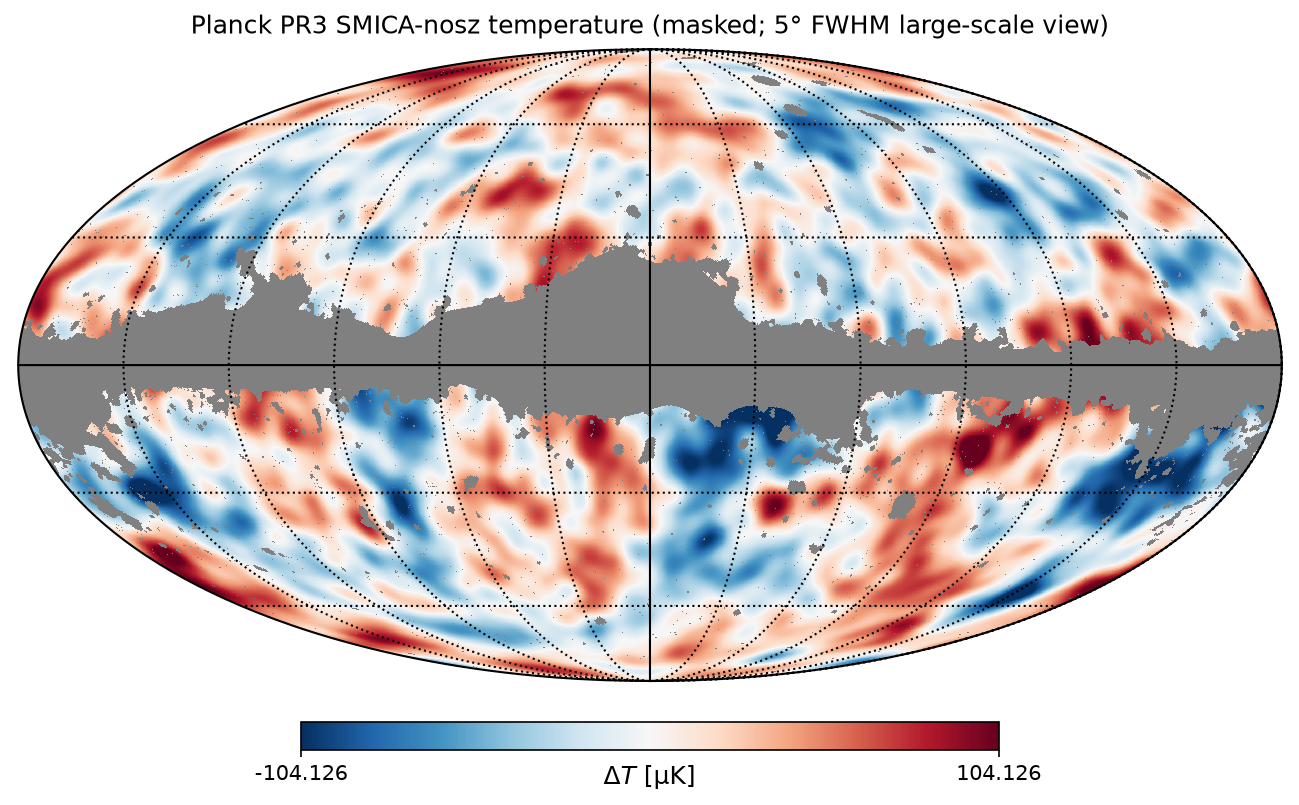
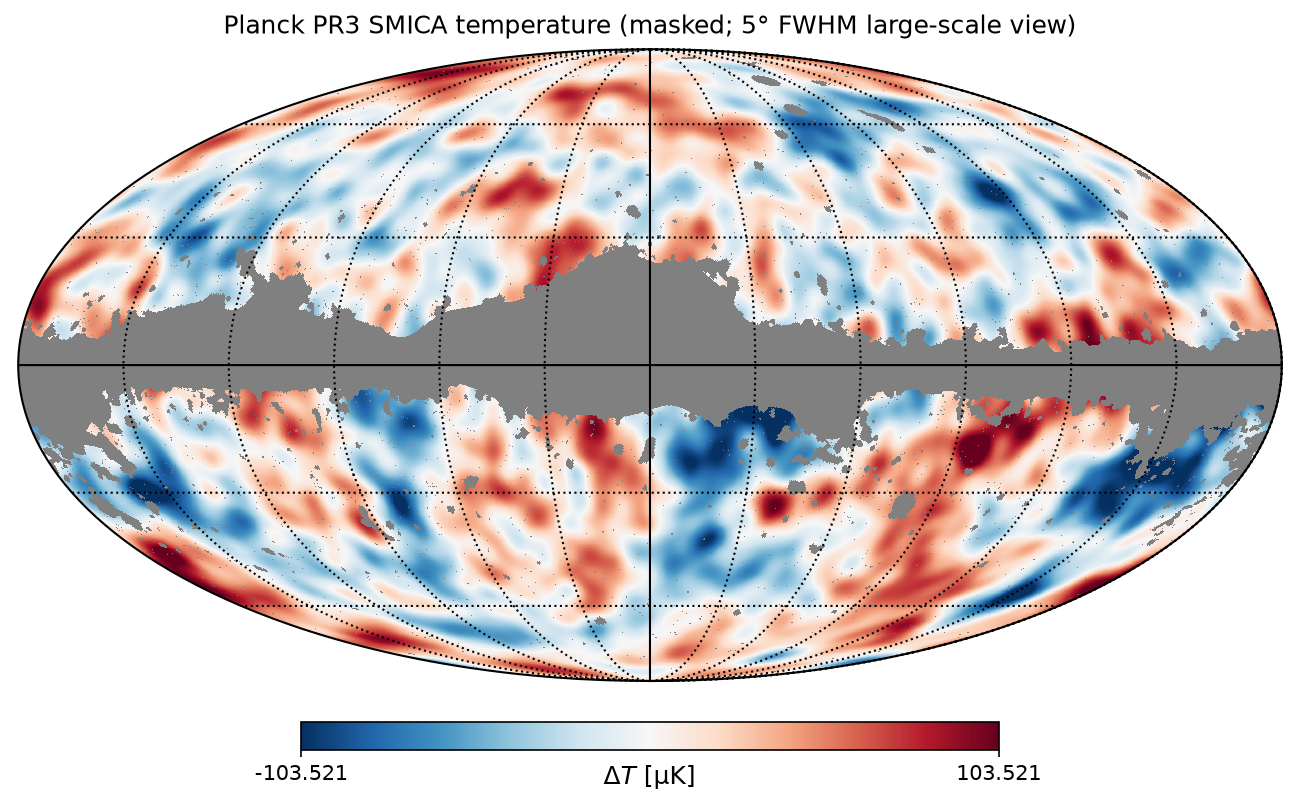
Update CMB map reference to full PR3 SMICA with verified extrema
Replace SMICA-nosz baseline with COM_CMB_IQU-smica_2048_R3.00_full,
document mask/smoothing choices and IRSA/PLA product links, regenerate
Mollweide figures, and refresh masked 1° top-10 hot/cold tables. Keep
Pantheon+ residual section as companion overlay hook; still no
correlation claims.

diff --git a/cmb-map.html b/cmb-map.html
@@ -3,8 +3,8 @@
 <head>
   <meta charset="utf-8">
   <meta name="viewport" content="width=device-width, initial-scale=1">
-  <title>CMB &amp; redshift residual maps — External Gravity Cosmology</title>
-  <meta name="description" content="Reference map facts for Planck PR3 SMICA temperature extrema and Pantheon+ directional distance-modulus residuals. Overlay products for offline correlation work — not EGC proof claims.">
+  <title>CMB map reference — External Gravity Cosmology</title>
+  <meta name="description" content="Data reference for the Planck PR3 SMICA temperature map used in planned offline CMB↔redshift work: product links, Mollweide visuals, and masked mild-smoothed extrema. No correlation results claimed.">
   <link rel="icon" href="favicon.svg" type="image/svg+xml">
   <link rel="stylesheet" href="css/styles.css">
   <style>
@@ -24,21 +24,31 @@
     }
     .data-table {
       width: 100%;
-      border-collapse: collapse;
-      font-size: 0.88rem;
-      margin: 1rem 0 1.75rem;
       overflow-x: auto;
-      display: block;
-    }
-    .data-table table { width: 100%; border-collapse: collapse; }
-    .data-table th, .data-table td {
+      margin: 1rem 0 1.75rem;
       border: 1px solid var(--border);
-      padding: 0.45rem 0.55rem;
+      border-radius: var(--radius);
+      background: var(--bg-card);
+    }
+    .data-table table { width: 100%; border-collapse: collapse; font-size: 0.88rem; min-width: 36rem; }
+    .data-table th, .data-table td {
+      border-bottom: 1px solid var(--border);
+      padding: 0.5rem 0.65rem;
       text-align: right;
       white-space: nowrap;
     }
+    .data-table tr:last-child td { border-bottom: none; }
     .data-table th:first-child, .data-table td:first-child { text-align: center; }
-    .data-table th { background: var(--bg-card); color: var(--text-muted); font-weight: 600; }
+    .data-table th {
+      background: var(--bg-elevated);
+      color: var(--accent);
+      font-weight: 600;
+      font-size: 0.72rem;
+      text-transform: uppercase;
+      letter-spacing: 0.08em;
+    }
+    .link-list { margin: 0.75rem 0 1.25rem; padding-left: 1.2rem; }
+    .link-list li { margin: 0.35rem 0; }
     .method-box code { font-size: 0.85em; }
   </style>
 </head>
@@ -71,12 +81,13 @@
 
   <main id="main">
     <section class="hero">
-      <p class="hero-kicker">Reference map products</p>
-      <h1>CMB &amp; redshift residual maps</h1>
+      <p class="hero-kicker">Data reference</p>
+      <h1>CMB map reference</h1>
       <p class="hero-lead">
-        Public Planck SMICA and Pantheon+ products reprojected for sky overlay.
-        Tables below list mild-smoothed extrema for orientation. Correlation analysis
-        remains offline; nothing on this page claims an EGC proof.
+        Which public Planck maps and masks are used for planned offline CMB↔redshift
+        overlay work, how they look in Galactic Mollweide projection, and the strongest
+        hot and cold extrema of the masked SMICA temperature map. No correlation results,
+        p-values, or unfinished analysis are presented here.
       </p>
       <div class="cta-row">
         <a class="btn btn-primary" href="papers/egc-cmb-redshift-correlation-outline.html">CMB↔redshift outline</a>
@@ -87,42 +98,90 @@
 
     <section class="section narrow">
       <div class="callout callout-warn">
-        <strong>Map facts only</strong>
+        <strong>Reference products only</strong>
         <p>
-          Extrema and Mollweide images are <em>reference products</em> derived from
-          official public catalogs. They support visual and offline statistical overlay
+          Mollweide images and extrema tables are derived from official public Planck
+          (and, below, Pantheon+) releases. They support orientation and offline overlay
           work. Favourable or discordant patterns would be interpreted only after a
           documented null test — not asserted here as completed correlation results.
         </p>
       </div>
     </section>
 
+    <section class="section narrow" aria-labelledby="products-heading">
+      <h2 id="products-heading">Primary products</h2>
+      <p class="lede">
+        The working baseline is the Planck Public Data Release 3 (PR3) SMICA
+        temperature anisotropy map in HEALPix format. PR4 / NPIPE releases are reserved
+        as cross-checks. Visuals use Galactic coordinates in Mollweide projection.
+        The Planck common intensity mask excludes the Galactic plane and other
+        contaminated regions for extrema reported below.
+      </p>
+      <ul class="link-list">
+        <li>
+          <strong>SMICA CMB map (PR3 full-mission IQU):</strong>
+          product ID <code>COM_CMB_IQU-smica_2048_R3.00_full</code>
+          —
+          <a href="https://irsa.ipac.caltech.edu/data/Planck/release_3/all-sky-maps/maps/component-maps/cmb/COM_CMB_IQU-smica_2048_R3.00_full.fits" rel="noopener noreferrer">IRSA / LAMBDA FITS download</a>
+          ·
+          <a href="https://irsa.ipac.caltech.edu/data/Planck/release_3/all-sky-maps/previews/COM_CMB_IQU-smica_2048_R3.00_full/index.html" rel="noopener noreferrer">product preview</a>
+          ·
+          <a href="https://pla.esac.esa.int/pla/#home" rel="noopener noreferrer">ESA Planck Legacy Archive portal</a>
+          (search the same product ID if a deep archive URL changes).
+        </li>
+        <li>
+          <strong>Common intensity mask:</strong>
+          product ID <code>COM_Mask_CMB-common-Mask-Int_2048_R3.00</code>
+          —
+          <a href="https://irsa.ipac.caltech.edu/data/Planck/release_3/ancillary-data/masks/COM_Mask_CMB-common-Mask-Int_2048_R3.00.fits" rel="noopener noreferrer">IRSA FITS download</a>
+          ·
+          <a href="https://irsa.ipac.caltech.edu/data/Planck/release_3/ancillary-data/previews/COM_Mask_CMB-common-Mask-Int_2048_R3.00/index.html" rel="noopener noreferrer">preview</a>.
+        </li>
+        <li>
+          <strong>CMB map matrix (all pipelines):</strong>
+          <a href="https://irsa.ipac.caltech.edu/data/Planck/release_3/all-sky-maps/matrix_cmb.html" rel="noopener noreferrer">IRSA PR3 CMB maps matrix</a>
+          (COMMANDER, NILC, SEVEM, SMICA).
+        </li>
+      </ul>
+      <p class="note">
+        Site images below were generated locally with healpy from the public HEALPix
+        products (not hotlinked). Planck map products are cited as ESA / Planck Collaboration.
+      </p>
+    </section>
+
     <section class="section narrow" aria-labelledby="cmb-heading">
       <h2 id="cmb-heading">Planck PR3 SMICA temperature</h2>
-      <p>
-        Source:
-        <a href="https://irsa.ipac.caltech.edu/data/Planck/release_3/all-sky-maps/maps/component-maps/cmb/" rel="noopener noreferrer">IRSA Planck PR3 CMB component maps</a>
-        — product <code>COM_CMB_IQU-smica-nosz_2048_R3.00_full</code> (I_STOKES),
-        with the common intensity mask
-        <code>COM_Mask_CMB-common-Mask-Int_2048_R3.00</code>.
-        Analysis: ud_grade to NSIDE&nbsp;512, FWHM&nbsp;1° Gaussian smoothing for extrema,
-        10° exclusion between listed spots. Units: µK.
-      </p>
+      <div class="callout method-box">
+        <strong>Extrema method</strong>
+        <p>
+          Field <code>I_STOKES</code> from <code>COM_CMB_IQU-smica_2048_R3.00_full</code>
+          (native NSIDE&nbsp;2048, units K<sub>CMB</sub>). Ud-graded to NSIDE&nbsp;512.
+          Common intensity mask applied (pixels with mask&nbsp;&gt;&nbsp;0.5 retained;
+          sky fraction ≈ 77.9%).
+          Mild Gaussian smoothing of <strong>FWHM&nbsp;1°</strong> before extrema so the
+          list tracks large-scale spots rather than single noisy pixels.
+          Successive extrema use a <strong>10°</strong> exclusion disk.
+          Reported values are ΔT in <strong>µK</strong> on that smoothed, masked map.
+          Coordinates: Galactic longitude/latitude; ICRS RA/Dec via standard conversion.
+        </p>
+      </div>
 
       <figure class="map-figure">
         <img src="images/cmb-smica-mollweide.png" width="1200" height="650"
-             alt="Mollweide map of Planck PR3 SMICA-nosz CMB temperature with 1 degree smoothing and Galactic mask">
+             alt="Mollweide map of Planck PR3 SMICA CMB temperature with 1 degree smoothing and common intensity mask">
         <figcaption>
-          Mollweide projection (Galactic) of SMICA-nosz temperature after 1° FWHM smoothing,
-          common intensity mask applied. RdBu diverging scale in µK.
+          Galactic Mollweide of Planck PR3 SMICA temperature after 1° FWHM smoothing,
+          common intensity mask applied. Diverging RdBu scale in µK.
+          Map data: ESA / Planck Collaboration (PR3 SMICA); figure generated for this site.
         </figcaption>
       </figure>
 
       <figure class="map-figure">
         <img src="images/cmb-smica-mollweide-largescale.png" width="1200" height="650"
-             alt="Mollweide map of Planck SMICA temperature with 5 degree large-scale smoothing">
+             alt="Mollweide map of Planck PR3 SMICA temperature with 5 degree large-scale smoothing">
         <figcaption>
-          Same map with 5° FWHM smoothing for large-scale visual context.
+          Same product with 5° FWHM smoothing for large-scale visual context
+          (mask applied). ESA / Planck Collaboration data; site-generated figure.
         </figcaption>
       </figure>
 
@@ -133,16 +192,16 @@
             <tr><th>#</th><th>ΔT [µK]</th><th>l [°]</th><th>b [°]</th><th>RA [°]</th><th>Dec [°]</th></tr>
           </thead>
           <tbody>
-            <tr><td>1</td><td>277.54</td><td>158.02</td><td>-70.26</td><td>24.25</td><td>-10.56</td></tr>
-            <tr><td>2</td><td>267.72</td><td>138.66</td><td>78.74</td><td>189.01</td><td>37.91</td></tr>
-            <tr><td>3</td><td>261.62</td><td>267.01</td><td>-20.03</td><td>107.23</td><td>-56.44</td></tr>
-            <tr><td>4</td><td>243.45</td><td>232.82</td><td>8.84</td><td>120.19</td><td>-13.25</td></tr>
-            <tr><td>5</td><td>239.84</td><td>176.84</td><td>12.71</td><td>98.06</td><td>37.72</td></tr>
-            <tr><td>6</td><td>238.00</td><td>16.85</td><td>72.11</td><td>211.29</td><td>20.99</td></tr>
-            <tr><td>7</td><td>237.27</td><td>303.57</td><td>-29.23</td><td>357.92</td><td>-87.83</td></tr>
-            <tr><td>8</td><td>236.63</td><td>0.18</td><td>-37.83</td><td>310.71</td><td>-41.30</td></tr>
-            <tr><td>9</td><td>235.51</td><td>180.37</td><td>55.97</td><td>154.70</td><td>40.24</td></tr>
-            <tr><td>10</td><td>233.10</td><td>219.81</td><td>26.28</td><td>129.32</td><td>6.10</td></tr>
+            <tr><td>1</td><td>+276.47</td><td>158.02</td><td>-70.26</td><td>24.25</td><td>-10.56</td></tr>
+            <tr><td>2</td><td>+266.51</td><td>138.66</td><td>78.74</td><td>189.01</td><td>37.91</td></tr>
+            <tr><td>3</td><td>+265.14</td><td>267.01</td><td>-20.03</td><td>107.23</td><td>-56.44</td></tr>
+            <tr><td>4</td><td>+241.75</td><td>232.82</td><td>8.84</td><td>120.19</td><td>-13.25</td></tr>
+            <tr><td>5</td><td>+240.69</td><td>16.85</td><td>72.11</td><td>211.29</td><td>20.99</td></tr>
+            <tr><td>6</td><td>+239.81</td><td>176.84</td><td>12.71</td><td>98.06</td><td>37.72</td></tr>
+            <tr><td>7</td><td>+237.81</td><td>303.57</td><td>-29.23</td><td>357.92</td><td>-87.83</td></tr>
+            <tr><td>8</td><td>+235.02</td><td>0.18</td><td>-37.83</td><td>310.71</td><td>-41.30</td></tr>
+            <tr><td>9</td><td>+234.22</td><td>180.37</td><td>55.97</td><td>154.70</td><td>40.24</td></tr>
+            <tr><td>10</td><td>+233.70</td><td>170.20</td><td>-46.57</td><td>43.31</td><td>4.82</td></tr>
           </tbody>
         </table>
       </div>
@@ -154,25 +213,30 @@
             <tr><th>#</th><th>ΔT [µK]</th><th>l [°]</th><th>b [°]</th><th>RA [°]</th><th>Dec [°]</th></tr>
           </thead>
           <tbody>
-            <tr><td>1</td><td>-267.13</td><td>200.83</td><td>20.11</td><td>116.11</td><td>19.39</td></tr>
-            <tr><td>2</td><td>-261.10</td><td>158.29</td><td>-32.09</td><td>44.75</td><td>21.88</td></tr>
-            <tr><td>3</td><td>-260.18</td><td>325.20</td><td>-9.82</td><td>247.59</td><td>-62.79</td></tr>
-            <tr><td>4</td><td>-257.28</td><td>71.19</td><td>-13.79</td><td>315.38</td><td>25.25</td></tr>
-            <tr><td>5</td><td>-252.51</td><td>145.55</td><td>-22.75</td><td>38.70</td><td>35.54</td></tr>
-            <tr><td>6</td><td>-251.80</td><td>202.31</td><td>-56.54</td><td>47.35</td><td>-16.86</td></tr>
-            <tr><td>7</td><td>-251.33</td><td>210.76</td><td>-35.23</td><td>69.99</td><td>-13.62</td></tr>
-            <tr><td>8</td><td>-245.95</td><td>341.72</td><td>-41.51</td><td>317.47</td><td>-55.25</td></tr>
-            <tr><td>9</td><td>-243.83</td><td>313.86</td><td>-20.74</td><td>252.58</td><td>-78.16</td></tr>
-            <tr><td>10</td><td>-243.02</td><td>192.04</td><td>-14.79</td><td>79.81</td><td>10.98</td></tr>
+            <tr><td>1</td><td>-267.69</td><td>200.83</td><td>20.11</td><td>116.11</td><td>19.39</td></tr>
+            <tr><td>2</td><td>-254.80</td><td>325.20</td><td>-9.82</td><td>247.59</td><td>-62.79</td></tr>
+            <tr><td>3</td><td>-253.05</td><td>71.19</td><td>-13.79</td><td>315.38</td><td>25.25</td></tr>
+            <tr><td>4</td><td>-250.44</td><td>158.29</td><td>-32.09</td><td>44.75</td><td>21.88</td></tr>
+            <tr><td>5</td><td>-250.29</td><td>145.55</td><td>-22.75</td><td>38.70</td><td>35.54</td></tr>
+            <tr><td>6</td><td>-249.72</td><td>202.31</td><td>-56.54</td><td>47.35</td><td>-16.86</td></tr>
+            <tr><td>7</td><td>-248.52</td><td>341.72</td><td>-41.51</td><td>317.47</td><td>-55.25</td></tr>
+            <tr><td>8</td><td>-247.45</td><td>192.04</td><td>-14.79</td><td>79.81</td><td>10.98</td></tr>
+            <tr><td>9</td><td>-246.82</td><td>210.76</td><td>-35.23</td><td>69.99</td><td>-13.62</td></tr>
+            <tr><td>10</td><td>-241.84</td><td>313.95</td><td>-20.66</td><td>252.49</td><td>-78.04</td></tr>
           </tbody>
         </table>
       </div>
+      <p class="note">
+        These are local extrema of the public map under the stated mask and 1° smoothing,
+        separated by ≥10°. They are not claimed as cosmologically unique “spots” beyond
+        that operational definition, and they are not EGC correlation results.
+      </p>
     </section>
 
-    <section class="section narrow" aria-labelledby="sn-heading">
+    <section class="section narrow" id="redshift-residuals" aria-labelledby="sn-heading">
       <h2 id="sn-heading">Pantheon+ directional distance-modulus residuals</h2>
       <p>
-        Source:
+        Companion sky product for the same planned overlay program. Source:
         <a href="https://github.com/PantheonPlusSH0ES/DataRelease" rel="noopener noreferrer">PantheonPlusSH0ES/DataRelease</a>
         — file <code>Pantheon+_Data/4_DISTANCES_AND_COVAR/Pantheon+SH0ES.dat</code>
         (Scolnic et al. 2022; cosmology context Brout et al. 2022).
@@ -241,19 +305,13 @@
       </div>
     </section>
 
-    <section class="section narrow">
-      <h2>Offline products &amp; caveats</h2>
+    <section class="section narrow" aria-labelledby="offline-heading">
+      <h2 id="offline-heading">Offline correlation work</h2>
       <p>
-        Machine-readable maps and extrema JSON live in the offline EGC workspace
-        (<code>egc-offline/cmb-redshift/</code>): NPZ/FITS residual maps,
-        <code>redshift_residuals_extrema.json</code>, <code>cmb_smica_extrema.json</code>,
-        and the PNGs mirrored under <code>images/</code> on this site.
-      </p>
-      <p class="note">
-        These products are intended for CMB↔redshift overlay studies described in the
-        <a href="papers/egc-cmb-redshift-correlation-outline.html">draft outline</a>.
-        No finished cross-correlation statistic or EGC confirmation is claimed on this page.
-        Contact: <a href="mailto:tom@young01.xyz">tom@young01.xyz</a>.
+        The planned CMB↔redshift directional study is described in the
+        <a href="papers/egc-cmb-redshift-correlation-outline.html">draft paper outline</a>.
+        Correlation analysis itself remains offline; this page supplies map reference
+        material only. Contact: <a href="mailto:tom@young01.xyz">tom@young01.xyz</a>.
       </p>
     </section>
   </main>

diff --git a/index.html b/index.html
@@ -324,6 +324,7 @@
         <li><a href="what-is-egc.html">What is EGC</a></li>
         <li><a href="predictions.html">Predictions</a></li>
         <li><a href="compare.html">Compare</a></li>
+        <li><a href="cmb-map.html">CMB map</a></li>
         <li><a href="faq.html">FAQ</a></li>
         <li><a href="contact.html">Contact</a></li>
       </ul>

diff --git a/SITE-UPDATE.md b/SITE-UPDATE.md
@@ -6,6 +6,34 @@
 **Contact locked to:** `tom@young01.xyz` only  
 **X handle:** `@universerethink` (consistent with live site)
 
+## v2.6 — CMB map reference (+ redshift residual hook)
+
+Public data-reference page for Planck PR3 SMICA (and companion Pantheon+ residual map section) used in planned offline CMB↔redshift work. No correlation results or p-values.
+
+### New / updated
+
+| Path | Role |
+|------|------|
+| `cmb-map.html` | CMB map reference: product links, Mollweide plots, top-10 hot/cold extrema; Pantheon+ residual section |
+| `images/cmb-smica-mollweide.png` | Masked SMICA, 1° FWHM |
+| `images/cmb-smica-mollweide-largescale.png` | Masked SMICA, 5° FWHM |
+| `images/cmb-smica-mollweide-unmasked.png` | Full-sky 1° (optional asset) |
+| `images/pantheonplus-residual-mollweide*.png` | Pantheon+ δμ maps (companion section) |
+
+### Method (CMB)
+
+- Product: `COM_CMB_IQU-smica_2048_R3.00_full` (I_STOKES); mask `COM_Mask_CMB-common-Mask-Int_2048_R3.00`
+- Ud_grade NSIDE 2048→512; FWHM 1° for extrema; 10° exclusion; units µK
+- PR3 working baseline; PR4/NPIPE noted as cross-check
+- Nav: “CMB map” on all main pages + outline
+
+### Untouched (by design)
+
+- No EGC correlation claims / p-values on the page  
+- Contact remains `tom@young01.xyz`
+
+---
+
 ## v2.5 — Visitor voice (no internal memo / no internal labels)
 
 Tom Young: *“You have written like you are talking to yourself. Fix it.”* Plus hard rule: internal collaborator filing labels must not appear in any public / visitor-facing text (HTML, SITE-UPDATE, CMB outline HTML/MD). Refer only to collaborator notes / working manuscripts / research notes.
